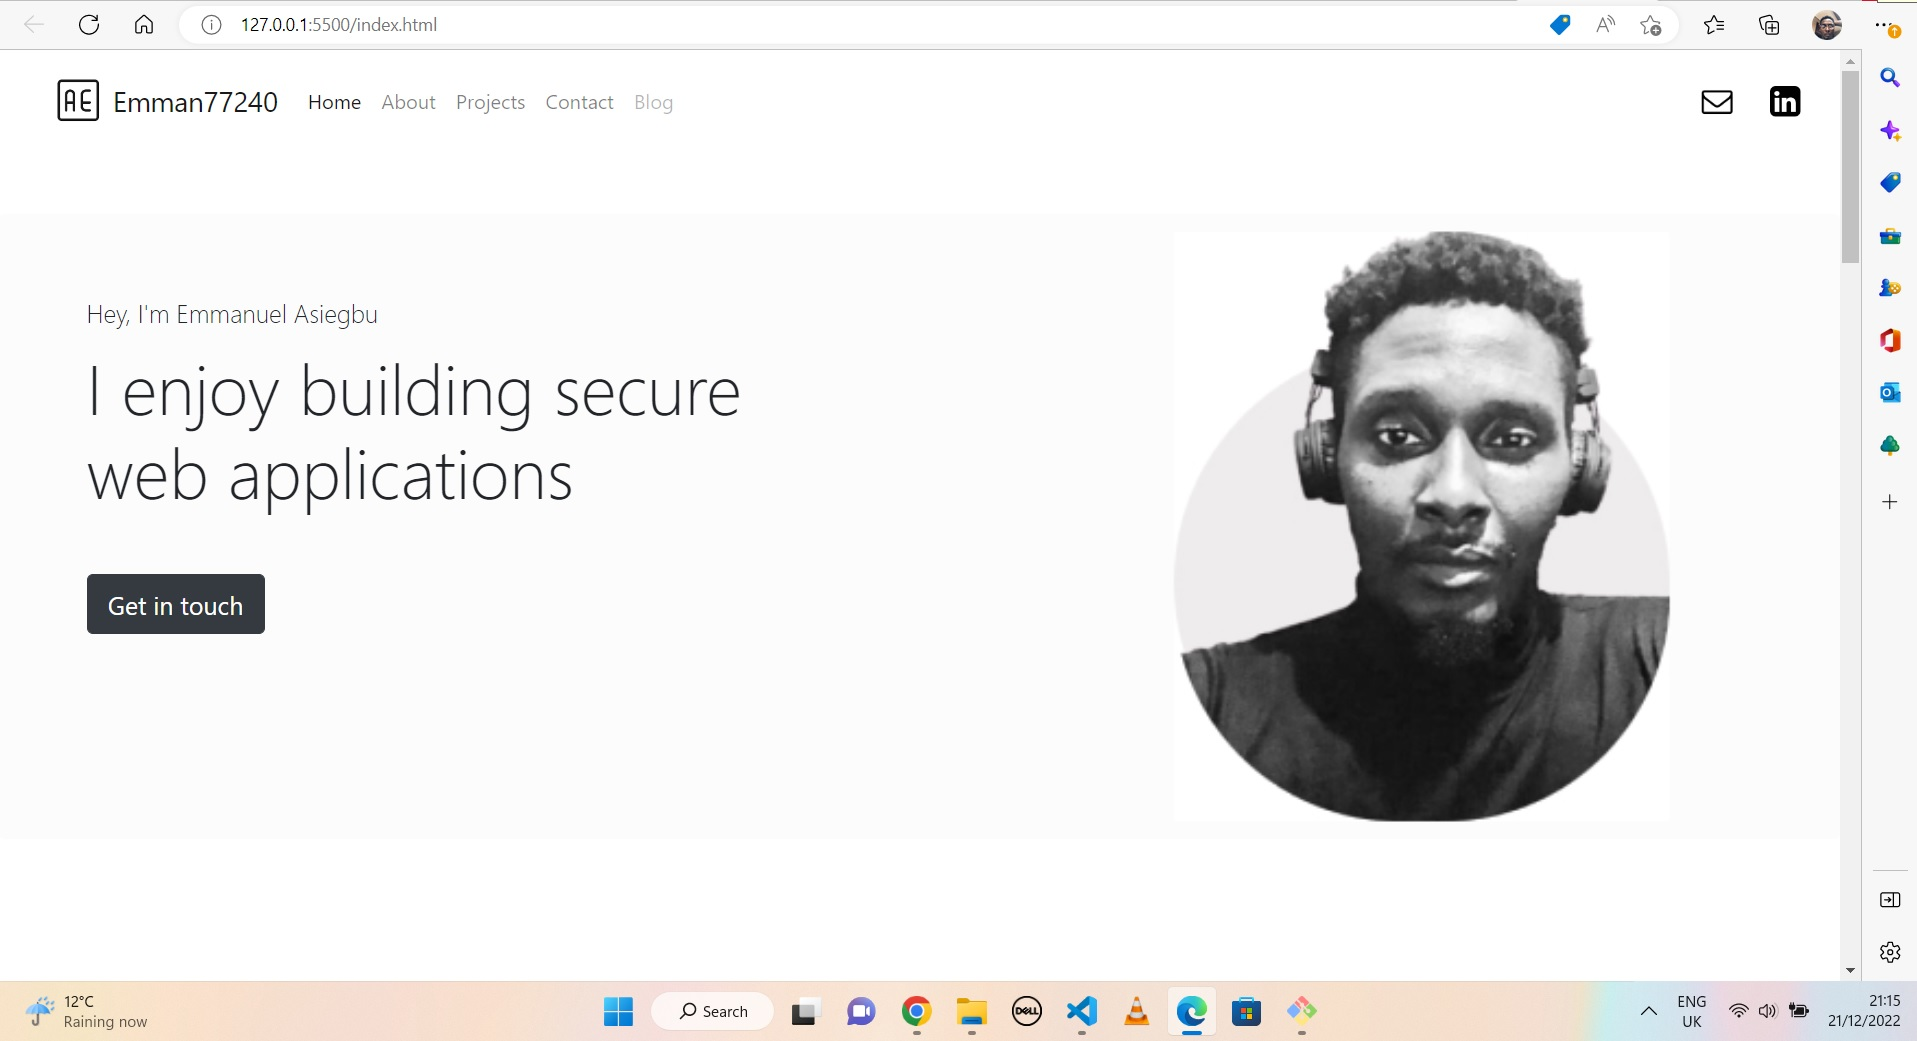
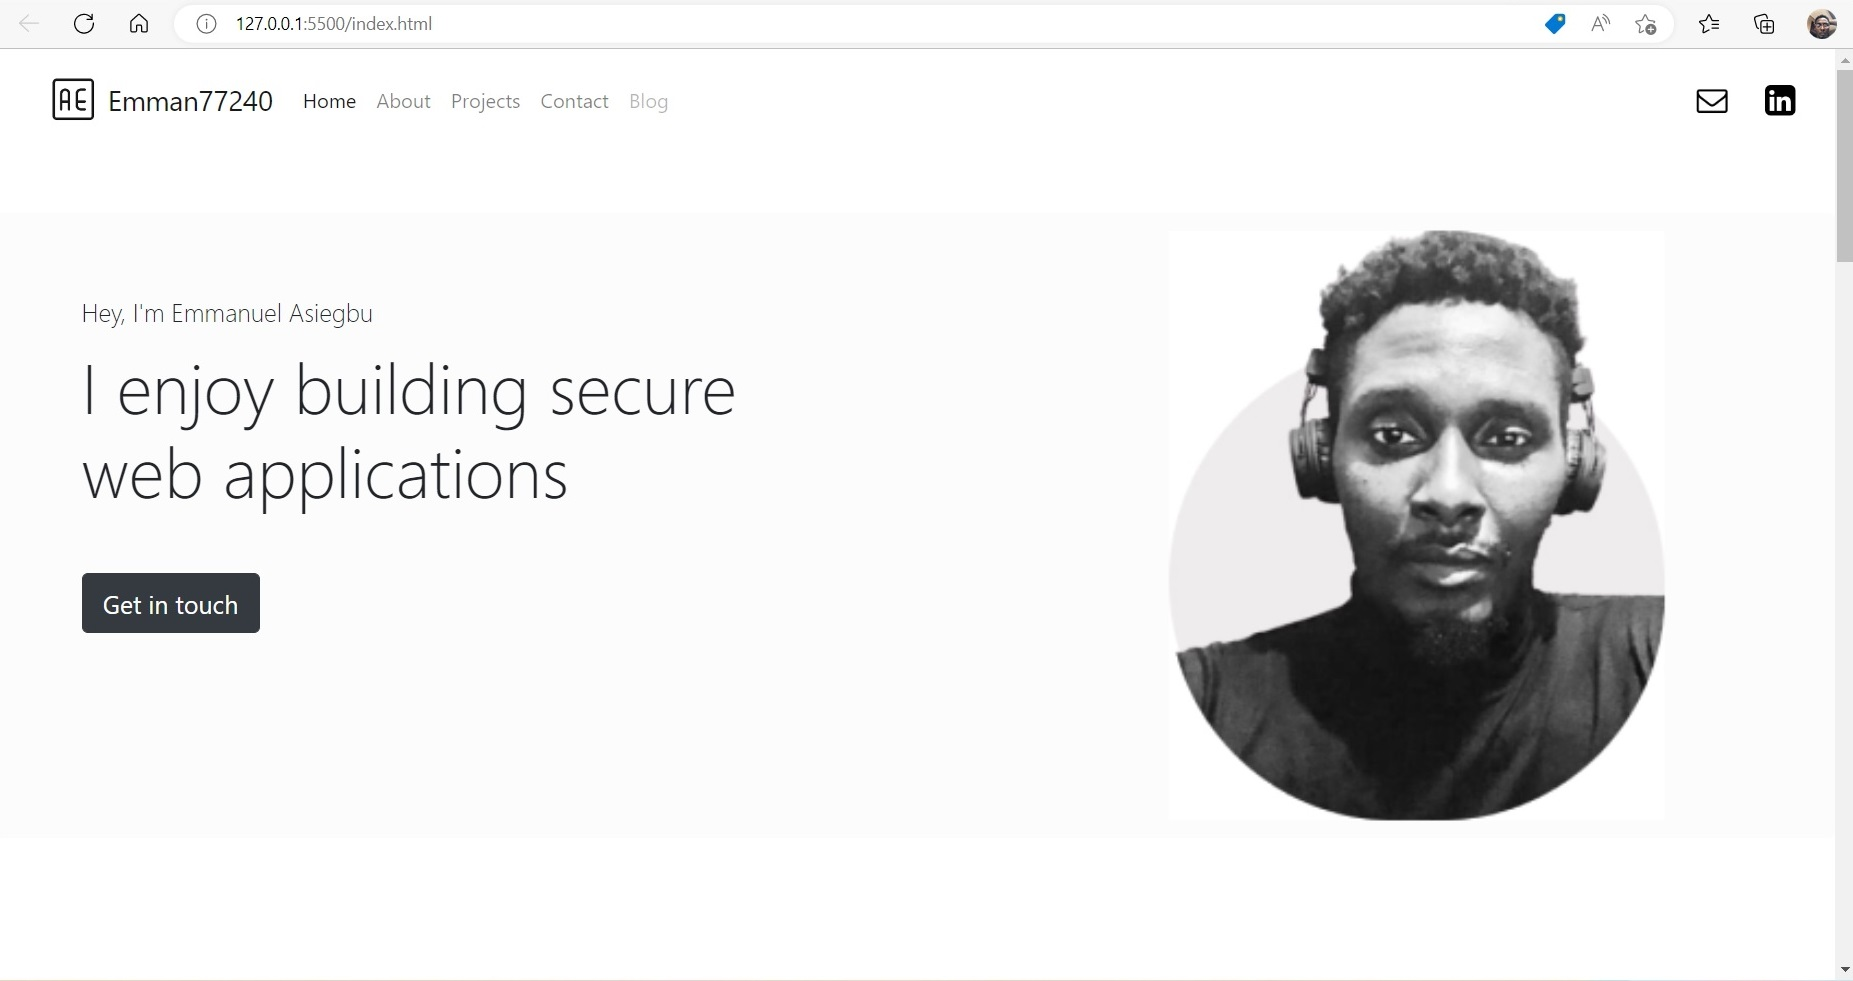
Added footer and contact me form to portfolio website using bootstrap

diff --git a/index.html b/index.html
@@ -54,13 +54,13 @@
     <p class="lead">Hey, I'm Emmanuel Asiegbu</p>
     <h1 class="display-4" style="margin-top: 10px;">I enjoy building secure</h1>
     <h1 class="display-4">web applications</h1>
-    <a class="btn btn-dark btn-lg" href="#contact" role="button" style="margin-top: 50px; color: white;">Get in touch</a>
+    <a class="p-3 btn btn-dark btn-lg" href="#contact" role="button" style="margin-top: 50px; color: white;">Get in touch</a>
   </div>
 
   <!-- Header Section -->
-  <div class="d-flex bd-highlight" style="margin-top: 150px;">
+  <div class="d-flex bd-highlight" style="margin-top: 200px;">
     <h1 class="p-2 bd-highlight" style="margin-left: 18%; font-size: 30px; font-weight: lighter; color: black; border-bottom: 1.5px solid #949497;">Take a look at my <strong>projects ...</strong></h1>
-    <a class="p-2 bd-highlight btn btn-dark btn-lg" href="https://github.com/Emman77240" target="_blank" role="button" style="margin-left: 30%; color: white;">View in GitHub</a>
+    <a class="p-3 bd-highlight btn btn-dark btn-lg" href="https://github.com/Emman77240" target="_blank" role="button" style="margin-left: 28%; color: white;">View in GitHub</a>
   </div>
   <!--
   <div class="workHeadline">
@@ -91,7 +91,7 @@
   </main>
 
    <!-- contact -->
-   <footer class="contactSection" id="contact">
+   <!--<footer class="contactSection" id="contact">
     <h3 class="contact-form-h3">Got questions? Ask it below...</h3>
     <div class="form-container" id="contact-form">  
       <form action="#">
@@ -125,6 +125,49 @@
         <img src="images/phone.png" alt="Phone Icon">
         <p>(44) 123-456-789</p>
       </div>
+    </div>
+  </footer>-->
+  <footer class="jumbotron jumbotron-fluid" style="background-image: none; background-color: black; margin: 0; height: 120vh;">
+    <div class="container row">
+      <form class="col-md-9" style="background-color: white; padding: 40px; border-radius: 5px;">
+        <!--<div class="form-row">
+          <div class="form-group col-md-6">
+            <label for="inputEmail4">First Name</label>
+            <input type="email" class="form-control" id="inputEmail4" placeholder="Email">
+          </div>
+          <div class="form-group col-md-6">
+            <label for="inputPassword4">Last Name</label>
+            <input type="password" class="form-control" id="inputPassword4" placeholder="Password">
+          </div>
+        </div>-->
+        <div class="form-group">
+          <label for="inputFirstName">First Name</label>
+          <input type="text" class="form-control" id="inputFirstName" placeholder="Your first name..">
+        </div>
+        <div class="form-group">
+          <label for="inputLastName">Last Name</label>
+          <input type="text" class="form-control" id="inputLastName" placeholder="Your last name..">
+        </div>
+        <div class="form-group">
+          <label for="inputCountry">Country</label>
+          <select id="inputCountry" class="form-control">
+            <option selected>United Kingdom</option>
+            <option>Canada</option>
+            <option>USA</option>
+            <option>Nigeria</option>
+            <option>France</option>
+          </select>
+        </div>
+        <div class="form-group">
+          <label for="inputMessage">Subject</label>
+          <input type="text" class="form-control" id="inputMessage" style="height: 200px;">
+        </div>
+        <div class="form-group">
+          <a class=" bd-highlight btn btn-lg" href="#" role="button" style="padding: 15px 40px; text-align: center; font-size: 13px; margin-top: 40px; color: white; background-color: black;">Submit</a>
+        </div>
+      
+      </form>
+      <!--<div class="col-md-3"><div class="p-3 border bg-light">Custom column padding</div></div>-->
     </div>
   </footer>
   <!-- Bootstrap script tags -->

diff --git a/README.md b/README.md
@@ -1,6 +1,7 @@
 # Bootstrap-Portfolio
 ![Portfolio Image](images/Profile%20Page.jpg)
-This repo contains a remake of my portfolio website with Bootstrap
+#
+This repo contains a remake of my portfolio website with Bootstrap which can be found [here](https://emman77240.github.io/Bootstrap-Portfolio/).
 
 ## Description
 This repository contains code for my portfolio website re-made with Bootstrap and it hosts projects that demonstrate my skills and talents as a web developer to employers.
